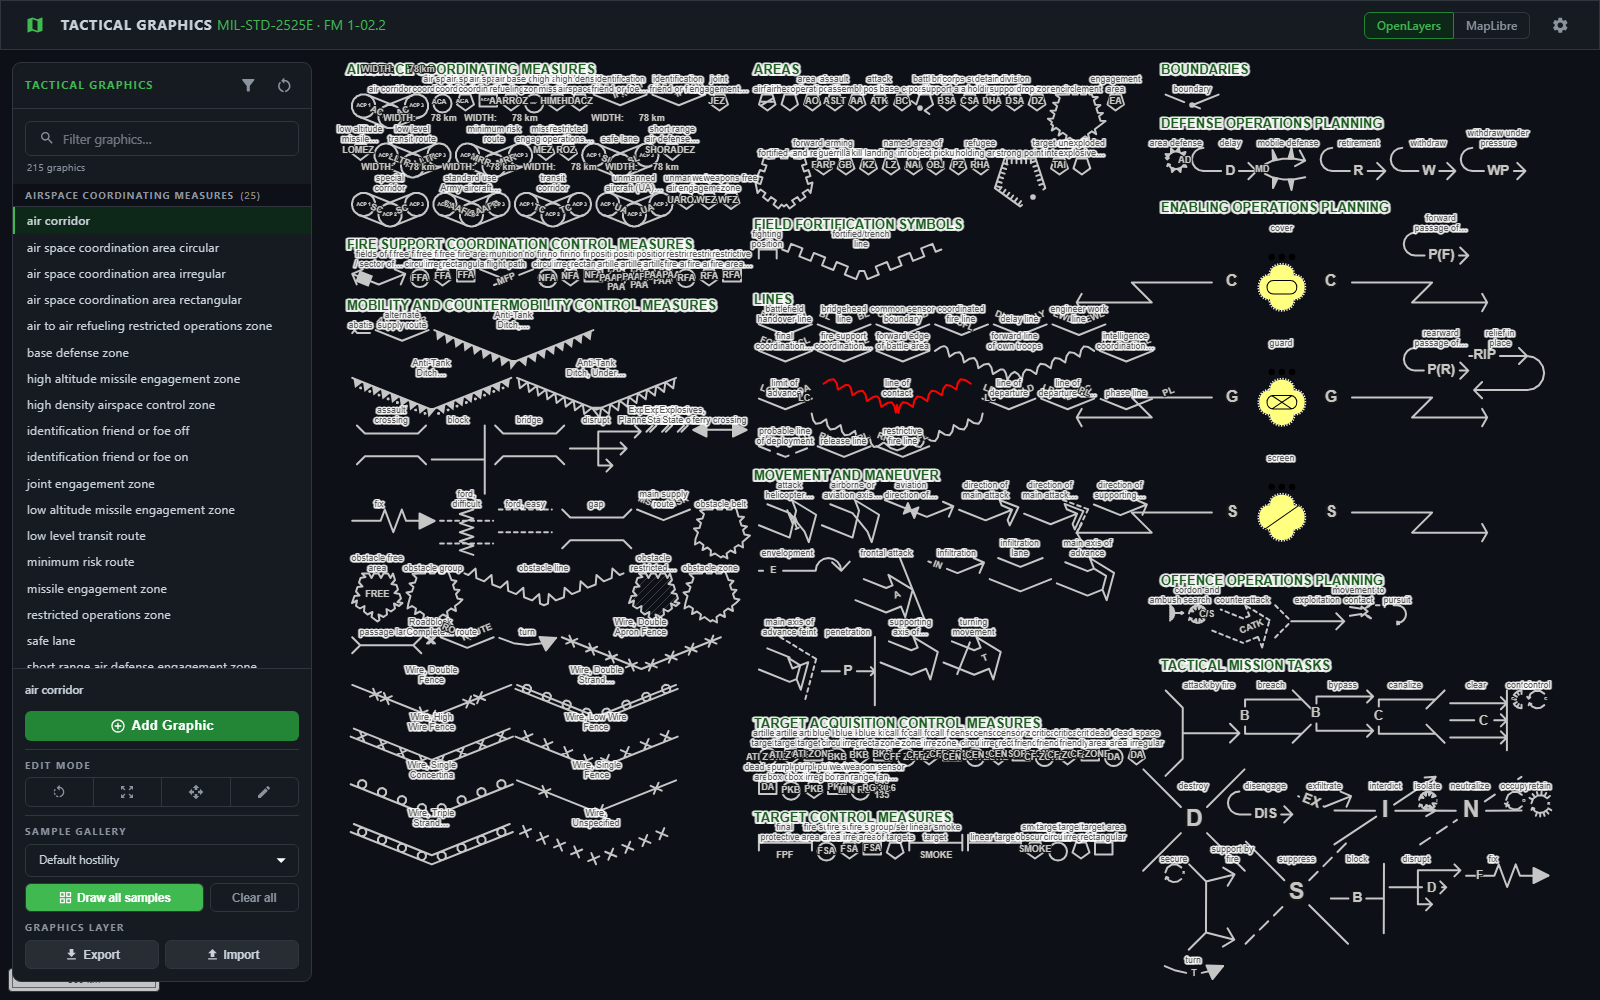
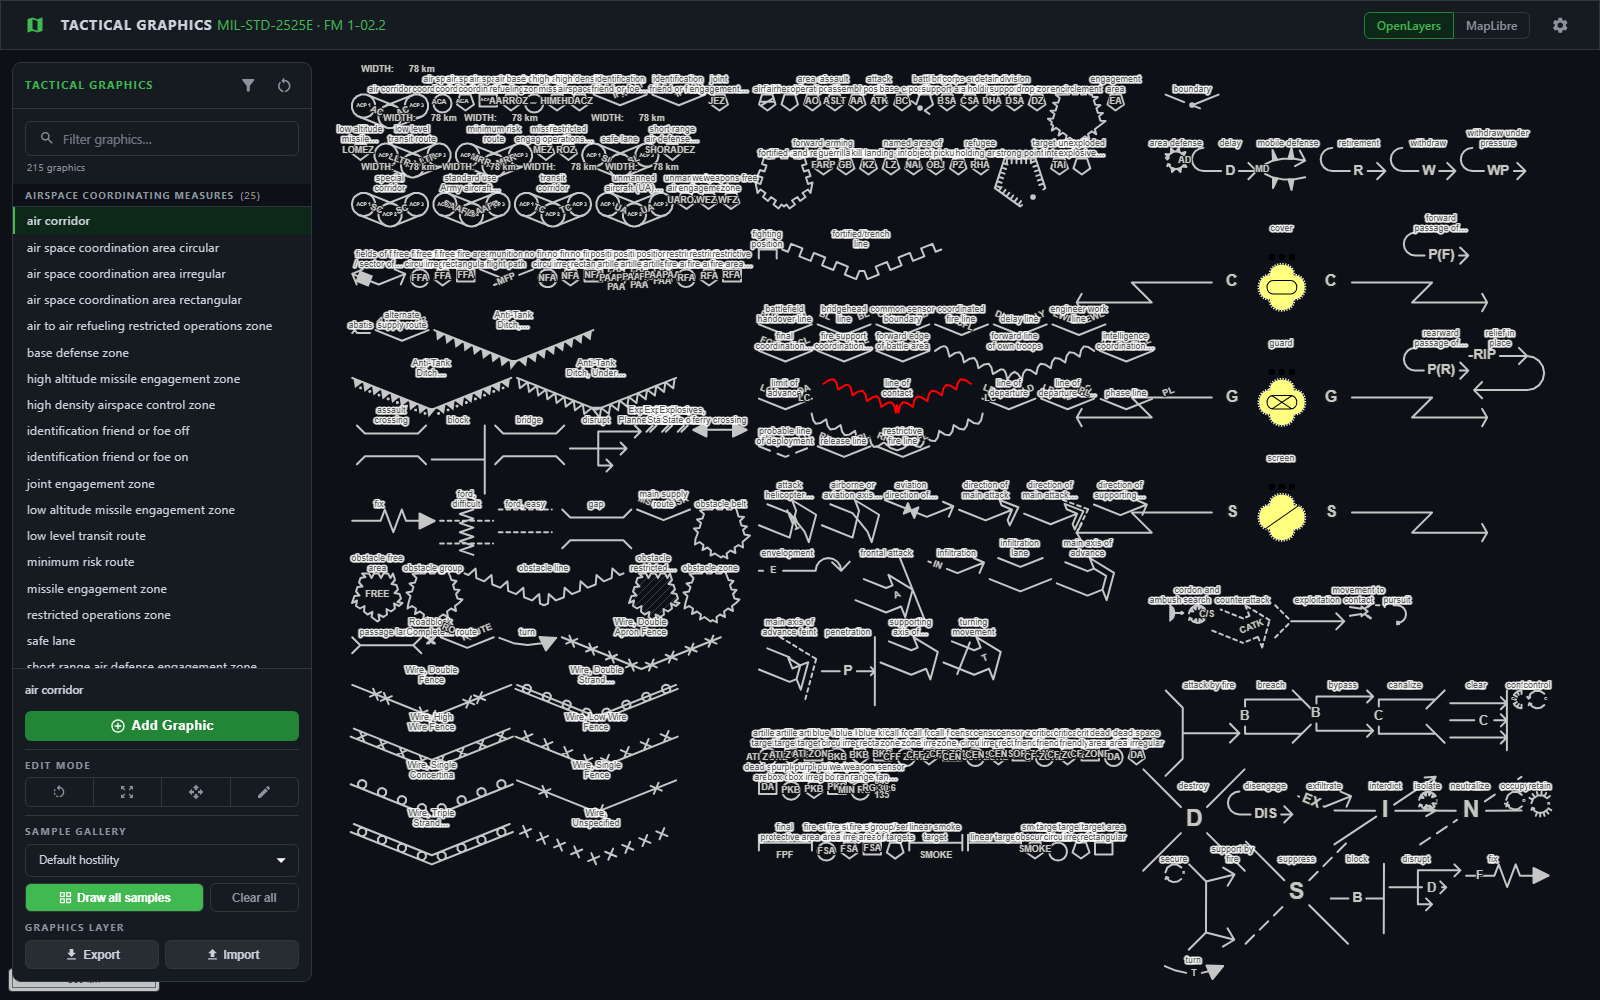
Keep rectangles rectangular in MapLibre, and match the measure dash
Four findings, from checking the fixed-vertex graphics across both engines.

**All 27 fixed-vertex graphics already agree** — ferry crossing, passage lane, both
fixes, the linear targets, the block family, the movement tasks. A segment drag adds
nothing to any of them in either engine. Nothing to fix; recorded because it was
asked and because the answer is worth having.

**Rectangles were not rectangles in MapLibre**, and the cause was upstream of the
editing: OpenLayers draws them with `createBox()` from two opposite corners, and
MapLibre was collecting them as ordinary polygons — a ring clicked out by hand. So a
"rectangular" kill box was whatever quadrilateral the user happened to click, and
every symptom followed from that. Two clicks now build a box there too.

Editing them is refused on both sides. OpenLayers does it by calling
`base.set('base', false)`, which quietly withdraws the graphic from its Modify
interaction — one flag in a holder, and the whole of how that engine keeps these
square. `isRectangular` makes it a library fact both engines read: a corner drag is
refused, and so is the segment-drag insertion added yesterday, which a rectangle
would otherwise have answered with a fifth vertex.

  BlueKillBox / CallForFireZone / FreeFireArea / PurpleKillBox / TargetArea / CensorZone
  before   OL 5v rect=true through corner and edge drags   MLB would not draw at all
  after    both engines identical, rect=true throughout
[…]

diff --git a/src/components/maplibre/interaction/MapLibreInteractions.ts b/src/components/maplibre/interaction/MapLibreInteractions.ts
@@ -39,7 +39,7 @@ import {
 import {buildTacticalGraphic, type MapLibreTacticalGraphic} from '../maplibreAdapter';
 import type {NativeLayerRenderer} from '../native/NativeLayerRenderer';
 import {resolutionOf, toMercator} from '../projection';
-import {anchorVertex, baseVertexCount, editStretches, hasRadiusReadout, normalizeDrawnBase} from '@zaes/tactical-graphics';
+import {anchorVertex, baseVertexCount, editStretches, hasRadiusReadout, isRectangular, normalizeDrawnBase} from '@zaes/tactical-graphics';
 import {
     centreOf,
     insertVertex,
@@ -275,6 +275,13 @@ export class MapLibreInteractions {
 
         this.sketch.push(position);
 
+        // A rectangle is two opposite corners and nothing else — the other two follow.
+        // @see buildBox, isRectangular
+        if (isRectangular(name) && this.sketch.length >= 2) {
+            this.finishDraw(this.sketch.slice(0, 2));
+            return;
+        }
+
         // A graphic with a fixed base finishes on its own last click. It never sends
         // the double-click a free-form line ends on, so waiting for one meant a
         // fields-of-fire could not be drawn here at all: five clicks, no graphic.
@@ -318,6 +325,8 @@ export class MapLibreInteractions {
     private sketchIsComplete(): boolean {
         const name = this.drawing;
         if (!name) return false;
+        // Two corners is a whole rectangle. @see buildBox
+        if (isRectangular(name)) return this.sketch.length >= 2;
         const wanted = baseVertexCount(name);
         // Asked of the **normalised** sketch, not the raw one, so a graphic that defines
         // part of its own base counts as finished once the rest is implied: two points
@@ -346,7 +355,10 @@ export class MapLibreInteractions {
         const wants = baseGeometryFor(name);
         // What the user clicked becomes what is stored — repeated clicks dropped, and an
         // implied vertex made real so it gets a handle. @see normalizeDrawnBase
-        const geometry = buildBase(wants, wants === 'LineString' ? normalizeDrawnBase(name, vertices) : vertices);
+        const geometry =
+            isRectangular(name) && vertices.length >= 2
+                ? buildBox(vertices)
+                : buildBase(wants, wants === 'LineString' ? normalizeDrawnBase(name, vertices) : vertices);
         if (!geometry) return;
 
         const properties: TacticalGraphicProperties = {
@@ -554,6 +566,11 @@ export class MapLibreInteractions {
                 // instead slid the whole graphic, so the angle could not be changed that
                 // way at all. @see editStretches
                 if (drag.vertex < 0 && editStretches(drag.graphic.name)) return resize(before, drag.last, to);
+                // **A rectangle's corners are a consequence of its box, not points with
+                // meanings of their own**, so a reshape drag is refused outright and the
+                // shape can only be moved, turned or scaled. OpenLayers withdraws these
+                // from its Modify interaction to the same end. @see isRectangular
+                if (isRectangular(drag.graphic.name)) return before;
                 // A graphic that does not reshape and does not stretch is left alone.
                 // Falling through to the move below would make "edit" a second "move" for
                 // the point-anchored symbols, where OpenLayers does nothing at all.
@@ -651,6 +668,8 @@ export class MapLibreInteractions {
      */
     private grabSegment(graphic: MapLibreTacticalGraphic, point: {x: number; y: number}): number {
         if (baseVertexCount(graphic.name) !== undefined || editStretches(graphic.name)) return -1;
+        // A rectangle with a fifth vertex is not a rectangle. @see isRectangular
+        if (isRectangular(graphic.name)) return -1;
 
         const positions = positionsOf(graphic.base.geometry);
         if (positions.length < 2) return -1;
@@ -689,6 +708,22 @@ export class MapLibreInteractions {
  * The base geometry a set of drawn vertices makes, for the shape this graphic
  * wants — or null when there are not enough of them yet.
  */
+/**
+ * The ring of an axis-aligned box through two opposite corners.
+ *
+ * What OpenLayers gets from `createBox()`, which is why its rectangles are rectangles:
+ * the user gives two corners and the other two are derived, so there is never a moment
+ * at which the shape could be anything else. MapLibre was collecting these as ordinary
+ * polygons — click a ring out by hand — so a "rectangular" kill box was whatever
+ * quadrilateral the user happened to click, and every later complaint about corners
+ * moving and vertices appearing followed from that.
+ */
+function buildBox([a, b]: Position[]): Geometry {
+    const [x0, x1] = [Math.min(a[0], b[0]), Math.max(a[0], b[0])];
+    const [y0, y1] = [Math.min(a[1], b[1]), Math.max(a[1], b[1])];
+    return {type: 'Polygon', coordinates: [[[x0, y0], [x1, y0], [x1, y1], [x0, y1], [x0, y0]]]};
+}
+
 function buildBase(wants: 'Point' | 'LineString' | 'Polygon' | undefined, vertices: Position[]): Geometry | null {
     if (!vertices.length) return null;
 

diff --git a/src/tacticalgraphics/core/handles.ts b/src/tacticalgraphics/core/handles.ts
@@ -405,6 +405,52 @@ const ANCHOR_VERTEX: Partial<Record<TacticalGraphicName, number>> = {
 };
 
 /**
+ * Graphics whose base is a **rectangle**, and must stay one.
+ *
+ * Fourteen area variants that FM 1-02.2 draws as a box: the rectangular kill boxes,
+ * fire-support areas, zones and target areas. The user draws two opposite corners and
+ * the shape is derived; the four vertices are a *consequence* of that box, not points
+ * with meanings of their own.
+ *
+ * So none of them may be dragged individually and none may be added to. Moving one
+ * corner of a rectangle produces a quadrilateral, which is a different shape and not
+ * one this symbol has — and the rectangular variants exist precisely because a
+ * separate irregular-area variant is already available for when a user wants one.
+ *
+ * **It lived in an OpenLayers holder, invisible to anything else.**
+ * `RectangularAreaGraphicController` draws with `createBox()` and then calls
+ * `base.set('base', false)`, which quietly withdraws the graphic from the Modify
+ * interaction — that single flag is the whole of how OpenLayers keeps these
+ * rectangular. MapLibre had no way to know, so it let a corner be dragged to any
+ * angle, and once a segment drag could add vertices it let a rectangle grow a fifth.
+ */
+const RECTANGULAR_GRAPHICS: readonly TacticalGraphicName[] = [
+    TacticalGraphicName.FreeFireAreaRectangular,
+    TacticalGraphicName.NoFireAreaRectangular,
+    TacticalGraphicName.RestrictiveFireAreaRectangular,
+    TacticalGraphicName.PositionAreaArtilleryRectangular,
+    TacticalGraphicName.ArtilleryTargetIntelligenceZoneRectangular,
+    TacticalGraphicName.CallForFireZoneRectangular,
+    TacticalGraphicName.CensorZoneRectangular,
+    TacticalGraphicName.CriticalFriendlyZoneRectangular,
+    TacticalGraphicName.DeadSpaceAreaRectangular,
+    TacticalGraphicName.BlueKillBoxRectangular,
+    TacticalGraphicName.PurpleKillBoxRectangular,
+    TacticalGraphicName.TargetAreaRectangular,
+    TacticalGraphicName.FireSupportAreaRectangular,
+    TacticalGraphicName.AirSpaceCoordinationAreaRectangular,
+];
+
+/**
+ * Whether this graphic's base is a rectangle whose corners are not individually
+ * editable. Translate, rotate and resize all still apply — it is the *shape* that is
+ * fixed, not the placement.
+ */
+export function isRectangular(name: TacticalGraphicName): boolean {
+    return RECTANGULAR_GRAPHICS.includes(name);
+}
+
+/**
  * Graphics whose **edit-mode drag resizes them** when it does not land on a vertex.
  *
  * Dragging a fields-of-fire's leg — not its handle, the line between them — opens or

diff --git a/src/components/maplibre/native/paintToLayers.ts b/src/components/maplibre/native/paintToLayers.ts
@@ -274,6 +274,27 @@ export function featureCollection(features: Feature[]): FeatureCollection {
  * pre-generated SDF glyph PBFs, so a deployment either self-hosts them or points
  * at someone else's server. There is no "just use the system font" option.
  */
+/**
+ * A dash pattern in **screen pixels** → the units MapLibre's `line-dasharray` wants.
+ *
+ * MapLibre scales a dash array by the line width; OpenLayers' `lineDash` is in raw
+ * canvas pixels. So the same `[8, 6]` that draws an 8px dash on one engine draws a
+ * 16px dash on the other at the default 2px stroke — the whole pattern comes out a
+ * factor of `LINE_WIDTH()` too long, everywhere a dash appears.
+ *
+ * A graphic's dashes were already converted — `dashKey` divides on the way in and the
+ * renderer parses the divided array back out of the layer key. **The editor's own
+ * dashes were not**: `sketchLayer` takes a pixel array and a width and passed both
+ * straight through, so the circle's radius read-out drew a 16px dash against
+ * OpenLayers' 8px. Hence a named helper rather than a division at one call site — the
+ * two paths reached the same property by different routes and only one had done the
+ * arithmetic.
+ */
+export function dashInWidths(dashPx: readonly number[], widthPx: number): number[] {
+    if (!(widthPx > 0)) return [...dashPx];
+    return dashPx.map(segment => segment / widthPx);
+}
+
 export function lineLayer(id: string, source: string, dashPx: number[] | undefined): LayerSpecification {
     return {
         id,
@@ -283,6 +304,8 @@ export function lineLayer(id: string, source: string, dashPx: number[] | undefin
         paint: {
             'line-color': ['get', 'color'],
             'line-width': ['get', 'width'],
+            // Already in line-widths: the layer key carries the divided array and the
+            // renderer parses it back out of that key. @see dashKey, dashInWidths
             ...(dashPx && dashPx.length ? {'line-dasharray': dashPx} : {}),
         },
     } as LayerSpecification;
@@ -503,7 +526,7 @@ export function sketchLayer(id: string, source: string, dashPx: number[], widthP
         paint: {
             'line-color': ['get', 'color'],
             'line-width': widthPx,
-            'line-dasharray': dashPx,
+            'line-dasharray': dashInWidths(dashPx, widthPx),
         },
     } as LayerSpecification;
 }

diff --git a/src/tacticalgraphics/drawnBase.test.ts b/src/tacticalgraphics/drawnBase.test.ts
@@ -18,6 +18,7 @@
  */
 
 import {normalizeDrawnBase} from './core/drawnBase';
+import {isRectangular} from './core/handles';
 import {TacticalGraphicName} from './core/type';
 
 const APEX = [10, 0];
@@ -72,5 +73,31 @@ describe('normalizeDrawnBase', () => {
     it('is safe on a base too short to mean anything yet', () => {
         expect(normalizeDrawnBase(TacticalGraphicName.FieldsOfFire, [TIP])).toEqual([TIP]);
         expect(normalizeDrawnBase(TacticalGraphicName.FieldsOfFire, [])).toEqual([]);
+    });
+});
+
+/**
+ * The rectangles, which are a shape rule rather than a tidy-up, but fail the same way
+ * when only one engine knows about them: OpenLayers withdrew them from its Modify
+ * interaction and MapLibre could not see that, so a corner could be dragged to any
+ * angle and — once a segment drag could add vertices — a rectangle could grow a fifth.
+ */
+describe('isRectangular', () => {
+    const names = Object.values(TacticalGraphicName);
+
+    it('is every rectangular area variant and nothing else', () => {
+        const flagged = names.filter(isRectangular);
+        const named = names.filter(name => String(name).endsWith('Rectangular'));
+        expect([...flagged].sort()).toEqual([...named].sort());
+    });
+
+    it('covers the fourteen the registry draws as boxes', () => {
+        expect(names.filter(isRectangular)).toHaveLength(14);
+    });
+
+    it('does not catch the irregular or circular variants of the same areas', () => {
+        expect(isRectangular(TacticalGraphicName.FreeFireAreaCircular)).toBe(false);
+        expect(isRectangular(TacticalGraphicName.AirSpaceCoordinationAreaIrregular)).toBe(false);
+        expect(isRectangular(TacticalGraphicName.AssemblyArea)).toBe(false);
     });
 });

diff --git a/src/components/openlayers/sampleGallery.ts b/src/components/openlayers/sampleGallery.ts
@@ -323,7 +323,13 @@ export function drawProvenSamples(
     const failed: SampleSweepResult['failed'] = [];
     let drawn = 0;
 
-    layout.headings.forEach(({category, x, y}) => source.addFeature(headingFeature([x, y], category)));
+    // **No category banners.** The sweep is a look at the symbols, and MapLibre's has
+    // never drawn them — so this is the engine that changed, to match. The grouping
+    // itself stays: it still orders the grid and reserves the row a heading used to sit
+    // in, which is what keeps each category starting on a fresh line.
+    //
+    // The per-graphic name under each symbol stays too. It is what makes the published
+    // gallery image readable, and it is not what a banner was doing.
 
     layout.placements.forEach(({name, cx, cy, titleY}) => {
         const handler = getController(name, layout.resolution);

diff --git a/src/tacticalgraphics/index.ts b/src/tacticalgraphics/index.ts
@@ -304,7 +304,7 @@ export {securityOperationLabelPaint} from './symbology/securityPaints';
 export {SECURITY_OPERATION_PX} from './graphics/SecurityOperation';
 export {baseGeometryFor} from './core/render';
 export {arrowheadMetres, decorationMetres, hasBakedDecoration} from './core/decorationSizes';
-export {RANGE_FANS, RANGE_FAN_BAND_OFFSET, RATIO_LOCK, anchorVertex, baseVertexCount, editStretches, handleContract, handleRole, isMovementGraphic, ratioLockOf, rotationAnchor} from './core/handles';
+export {RANGE_FANS, RANGE_FAN_BAND_OFFSET, RATIO_LOCK, anchorVertex, baseVertexCount, editStretches, handleContract, handleRole, isMovementGraphic, isRectangular, ratioLockOf, rotationAnchor} from './core/handles';
 export {normalizeDrawnBase} from './core/drawnBase';
 export type {HandleContract, HandleRole} from './core/handles';
 export {
